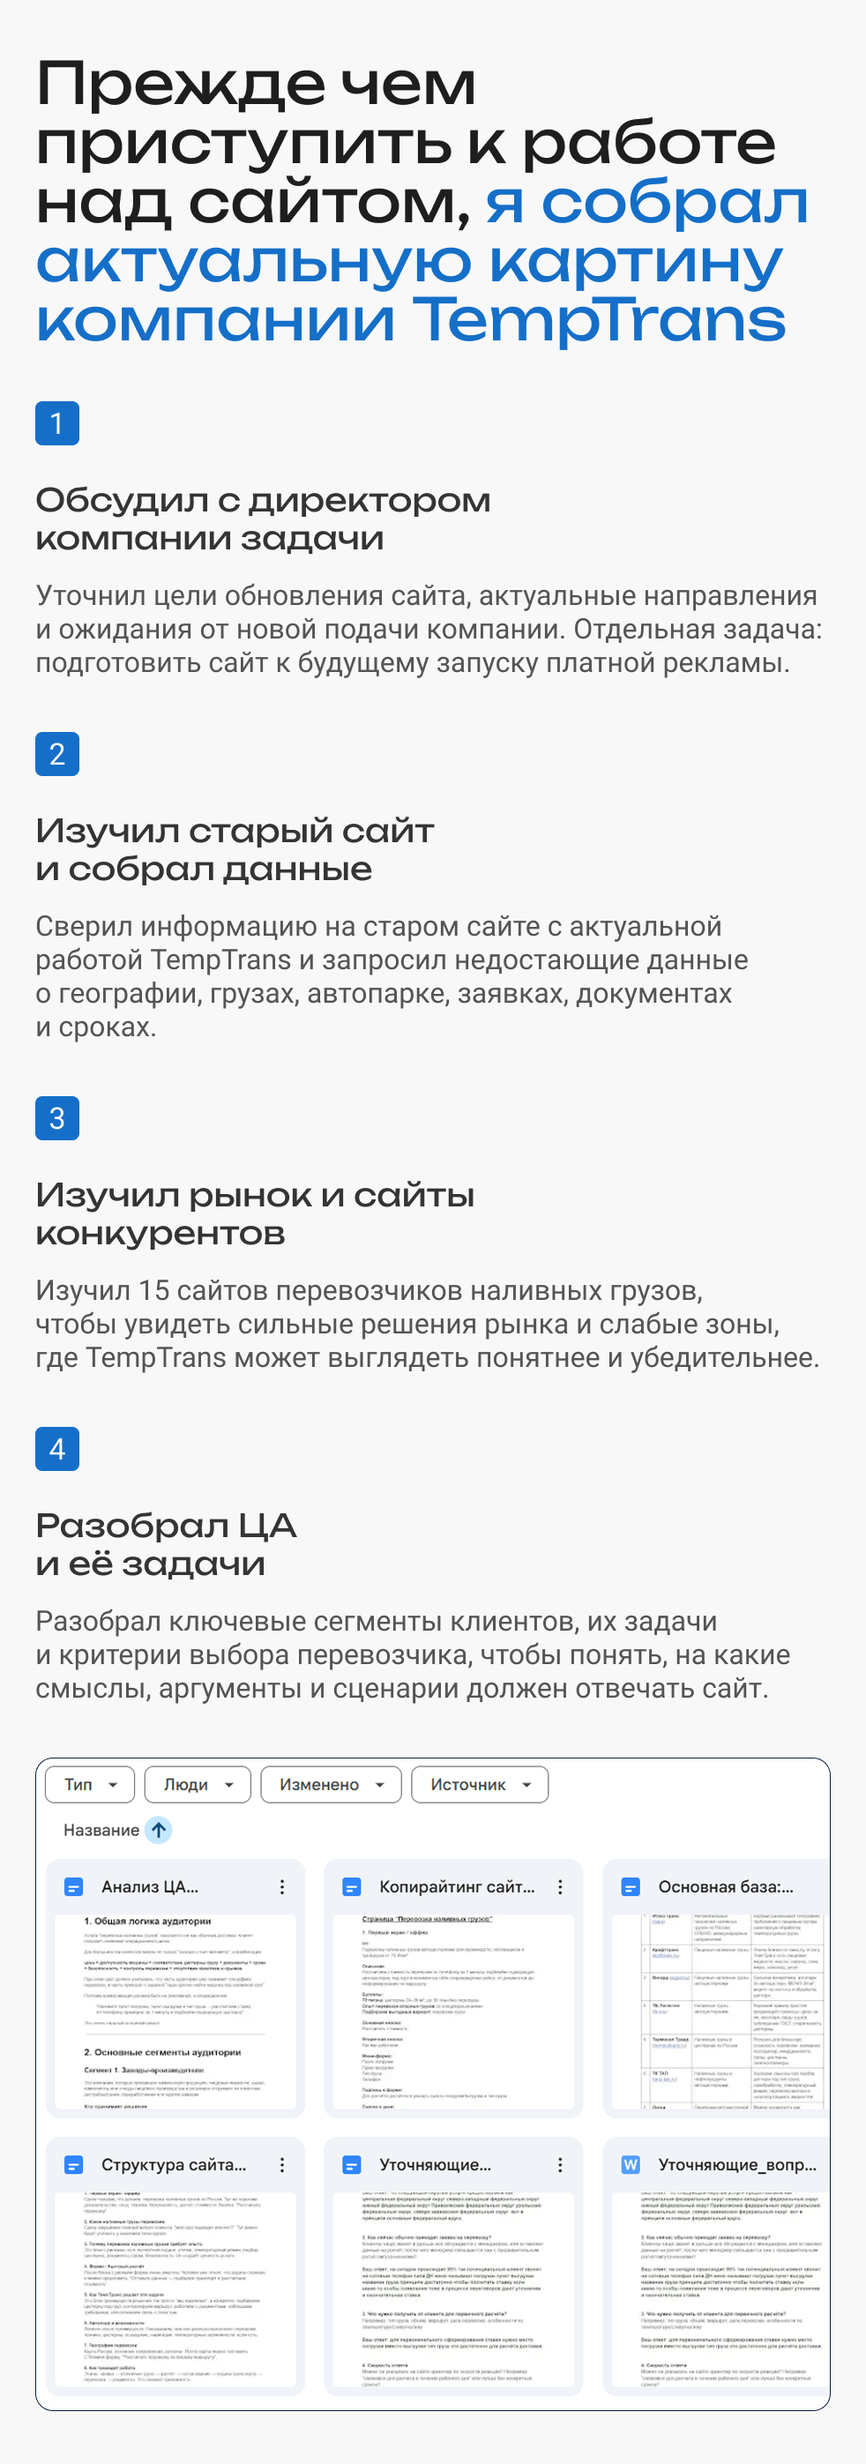
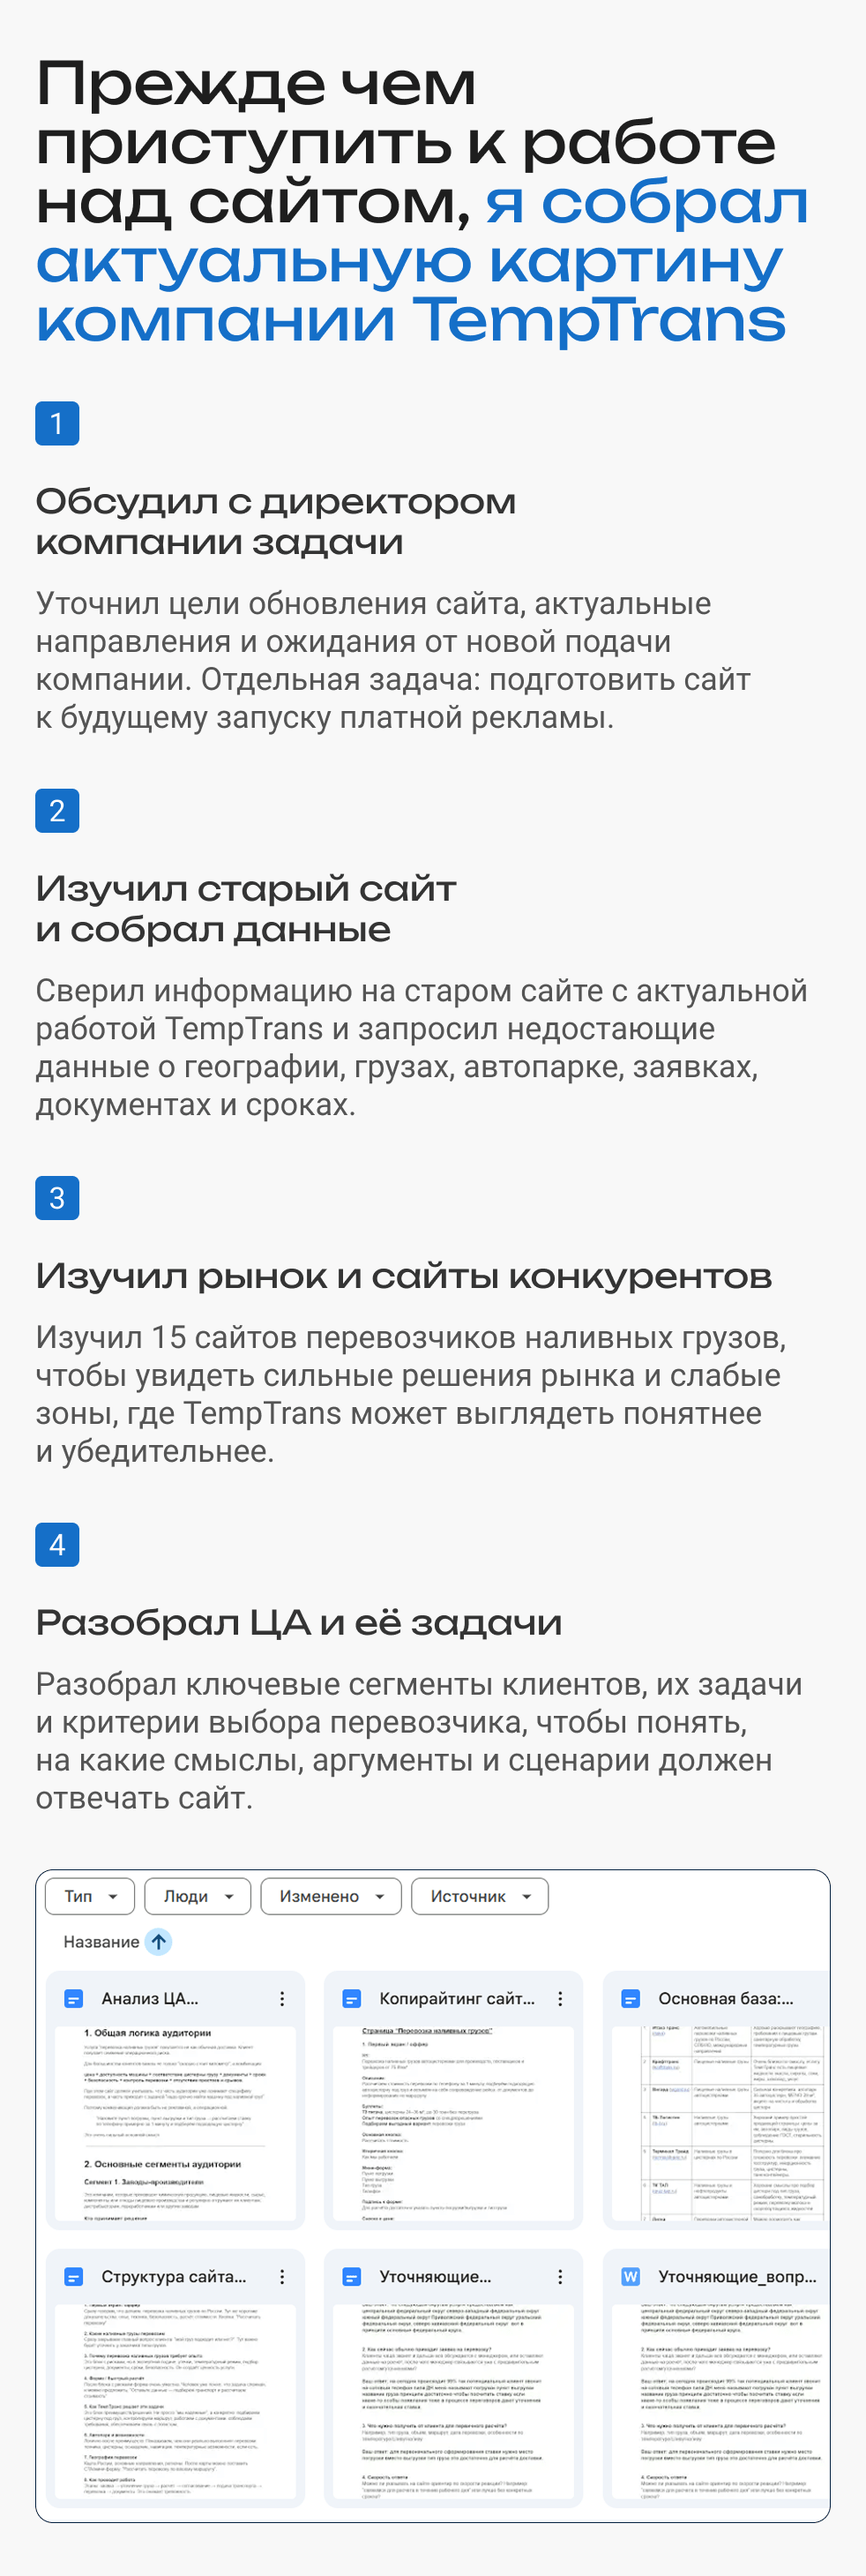
Update third Russian mobile slide

Changed region(s): [[0.0305, 0.0311, 0.947, 0.9964], [0.7026, 0.7473, 0.947, 0.9964]]

diff --git a/ru/index.html b/ru/index.html
@@ -64,7 +64,7 @@
       <section class="mobile-vertical-slides" aria-label="Вертикальная версия презентации">
         <img src="./mobile-slides/slide-01.png" alt="Первый слайд презентации TempTrans в мобильном формате" width="982" height="1949" loading="eager" decoding="async" fetchpriority="high">
         <img src="./mobile-slides/slide-02.png" alt="Второй слайд презентации TempTrans в мобильном формате" width="982" height="2333" loading="lazy" decoding="async">
-        <img src="./mobile-slides/slide-03.png" alt="Третий слайд презентации TempTrans в мобильном формате" width="982" height="2794" loading="lazy" decoding="async">
+        <img src="./mobile-slides/slide-03.png" alt="Третий слайд презентации TempTrans в мобильном формате" width="982" height="2920" loading="lazy" decoding="async">
       </section>
     </main>
 
